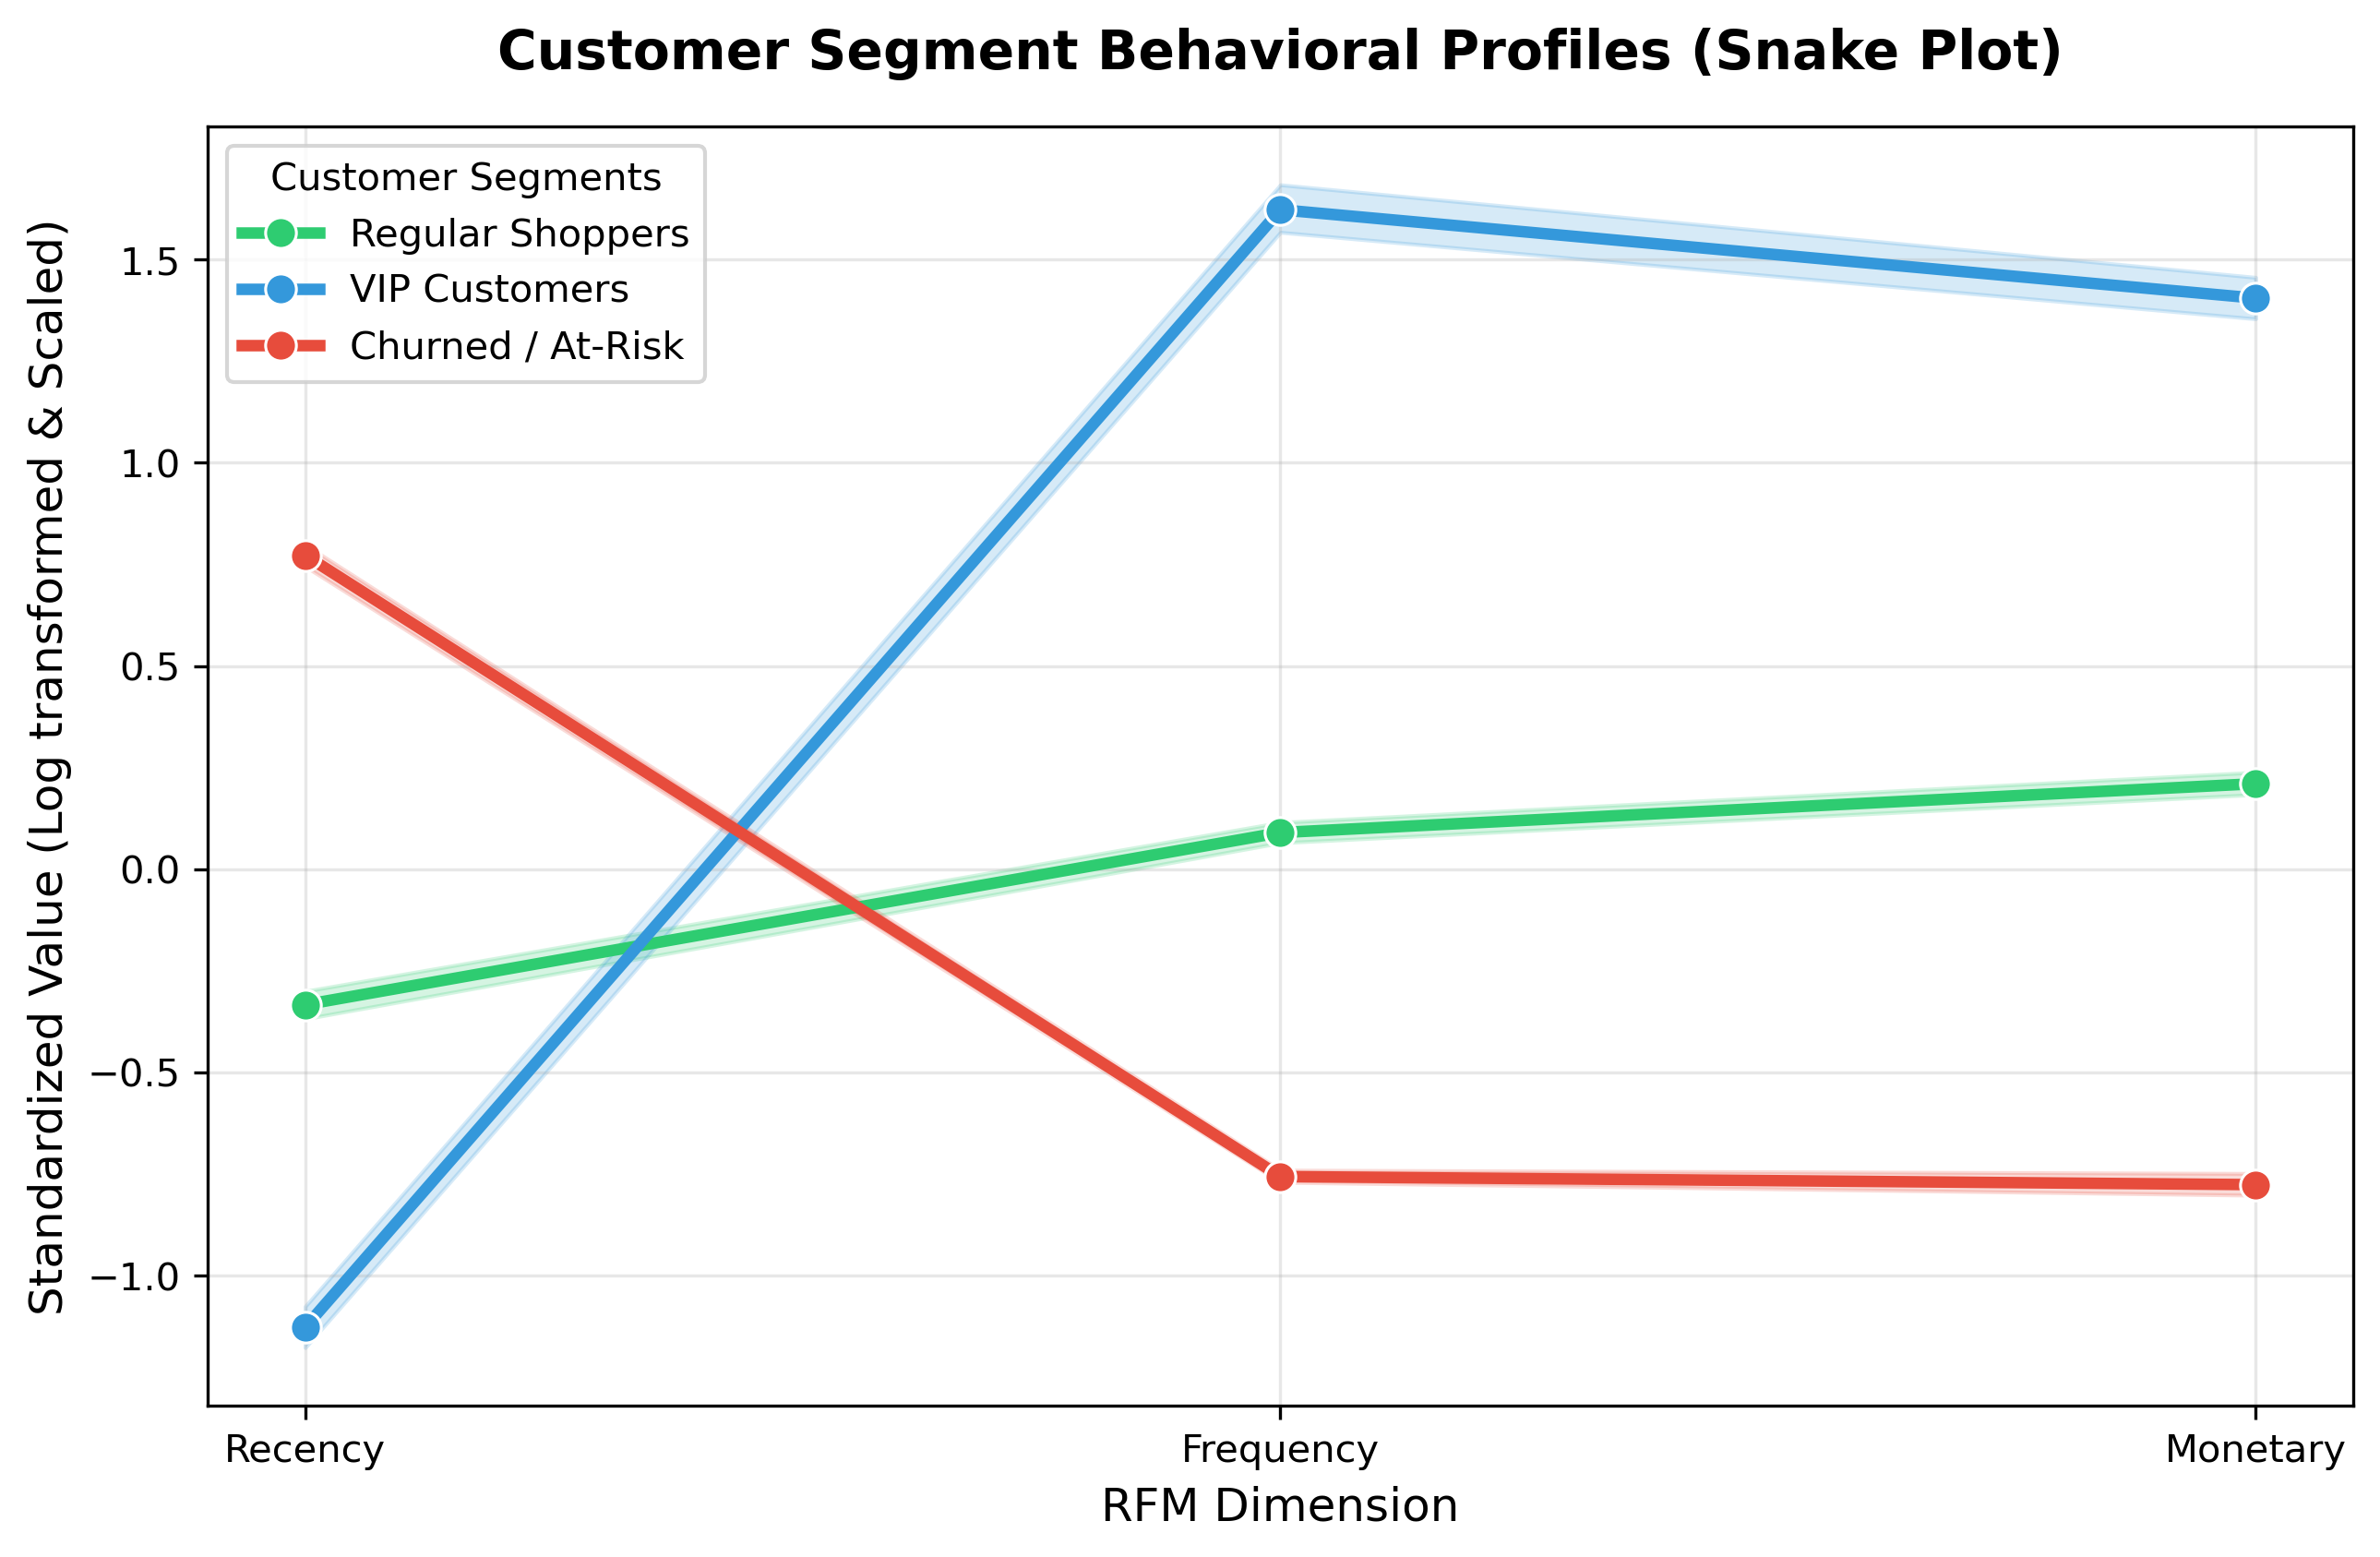
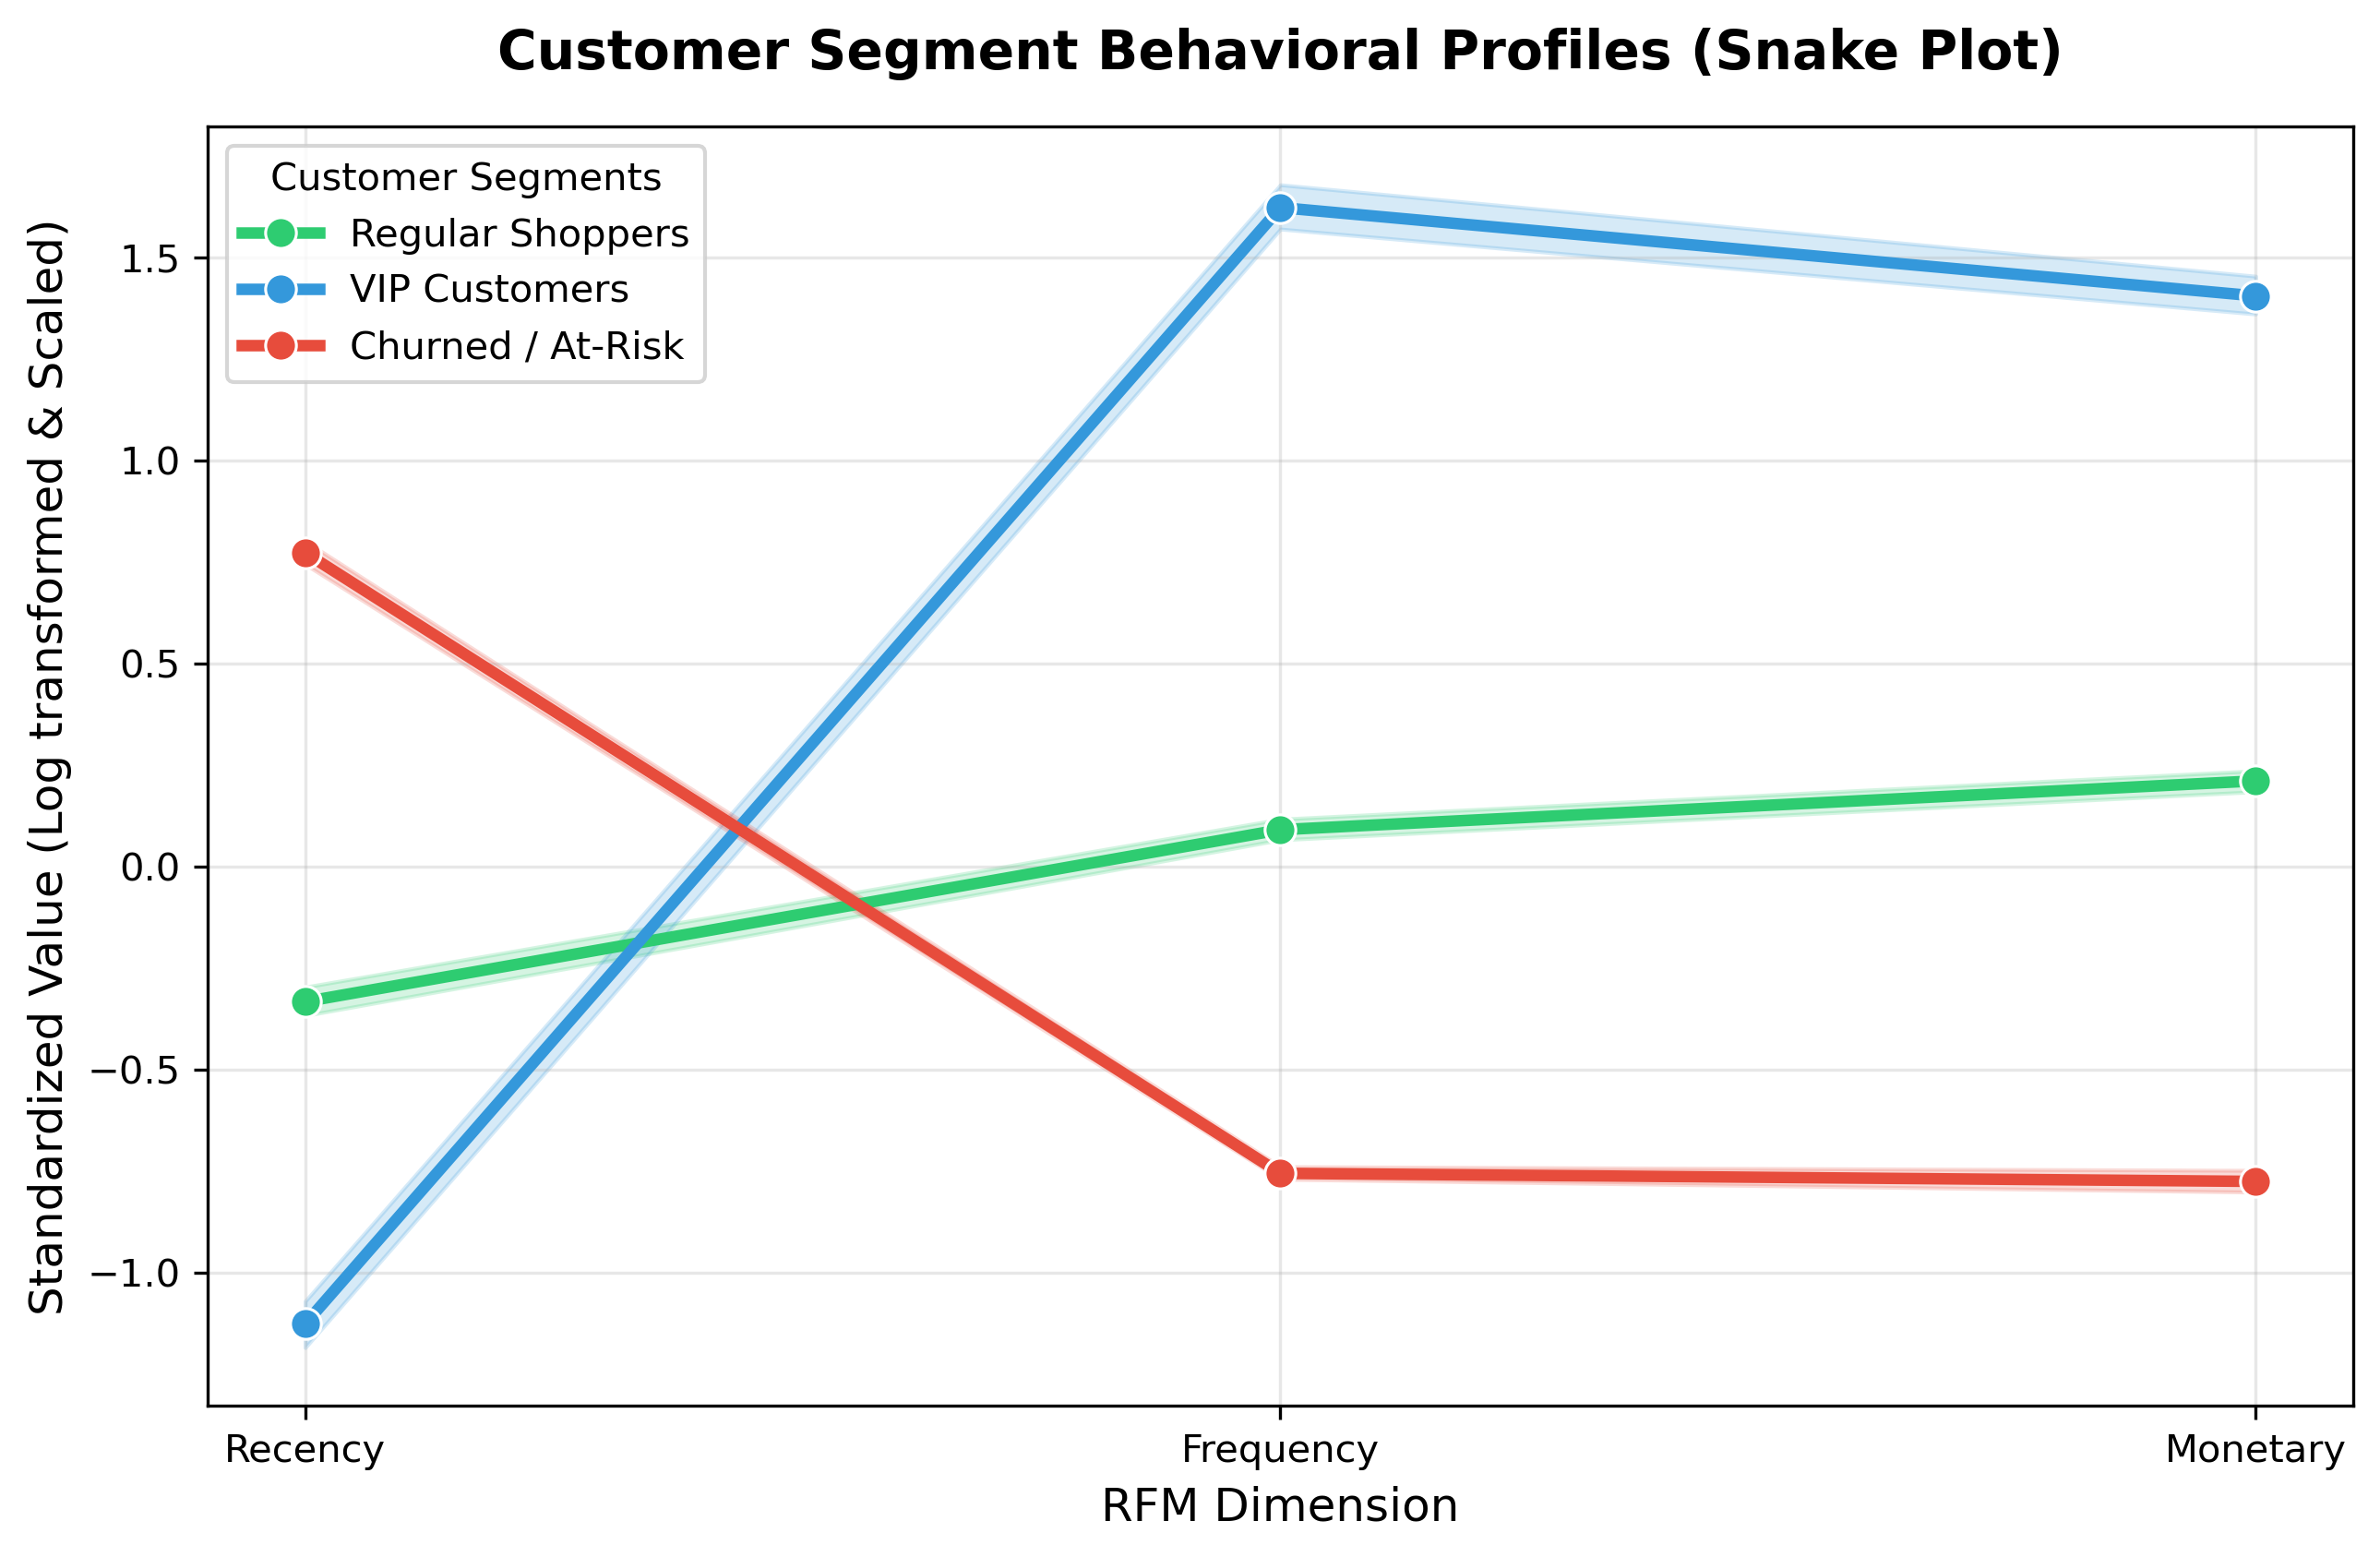
Initial commit: Complete 3-module customer analytics platform

diff --git a/app.py b/app.py
@@ -1,0 +1,259 @@
+import sys
+import numpy as np
+import numpy
+
+# Create a solid compatibility bridge for old pickle files
+try:
+    sys.modules['numpy._core.multiarray'] = numpy.core.multiarray
+except AttributeError:
+    sys.modules['numpy._core.multiarray'] = numpy.msgpack if hasattr(numpy, 'msgpack') else numpy
+
+import streamlit as st
+import pandas as pd
+import pickle
+import gzip
+
+# 1. Page Configuration
+st.set_page_config(
+    page_title="Customer Analytics Platform",
+    page_icon="📊",
+    layout="wide"
+)
+
+# --- LOAD SERIALIZED ARTIFACTS ---
[email redacted]_resource
+def load_model_artifacts():
+    # Module 1 files
+    with open('kmeans_model.pkl', 'rb') as f:
+        kmeans = pickle.load(f)
+    with open('scaler.pkl', 'rb') as f:
+        scaler = pickle.load(f)
+        
+    # Module 2 file
+    with open('churn_model.pkl', 'rb') as f:
+        churn_model = pickle.load(f)
+    
+    # Module 3
+    with gzip.open('item_similarity.pkl.gz', 'rb') as f:
+        item_similarity_df = pickle.load(f)
+        
+    return kmeans, scaler, churn_model, item_similarity_df
+        
+
+# Make sure all 4 variables are being unpacked here!
+try:
+    kmeans, scaler, churn_model, item_similarity_df = load_model_artifacts()
+except Exception as e:
+    st.error(f"Error loading model files: {e}")
+
+
+# --- LOAD DATASET TO CALCULATE DYNAMIC THRESHOLDS ---
[email redacted]_data
+def calculate_dataset_benchmarks():
+    try:
+        # Reads your raw or processed dataset file from your folder
+        df = pd.read_csv("Online_Retail.csv") # Double-check your filename matches exactly
+        
+        # Calculate statistical boundaries dynamically from the real dataset distribution
+        monetary_75 = df['Monetary'].quantile(0.75)
+        frequency_75 = df['Frequency'].quantile(0.75)
+        recency_75 = df['Recency'].quantile(0.75)
+        
+        return monetary_75, frequency_75, recency_75
+    except Exception:
+        # Seamless fallback values if the dataset isn't present in the local directory
+        return 1500.0, 10, 180
+
+# Get our live, general-purpose statistical thresholds!
+MONETARY_LIMIT, FREQUENCY_LIMIT, RECENCY_LIMIT = calculate_dataset_benchmarks()
+
+# 2. Sidebar Navigation / Title
+st.sidebar.title("Navigation")
+st.sidebar.markdown("Use the tabs on the main screen to explore the platform engines.")
+st.sidebar.info("Logged in as: **Moniha R**")
+
+st.title("📊 Customer Analytics Platform Dashboard")
+st.markdown("An end-to-end data science application managing clustering, flight-risk predictions, and personalized recommendation systems.")
+st.markdown("---")
+
+# 3. Create Tabs
+tab1, tab2, tab3 = st.tabs([
+    "🎯 Module 1: Customer Segmentation", 
+    "📈 Module 2: Churn Prediction", 
+    "🛒 Module 3: Recommendation Engine"
+])
+
+# --- TAB 1: SEGMENTATION ---
+with tab1:
+    st.header("Customer Behavior Segments (K-Means)")
+    st.write("Test an individual customer's metrics to see which cluster segment they belong to.")
+    
+    # Informative help section for end-users
+# Informative help section for end-users
+    with st.expander("ℹ️ How are these customer personas calculated?"):
+        st.markdown(f"""
+        Our machine learning engine categorizes users based on **RFM Quantiles** calculated live from the dataset distribution:
+        * **💎 High-Value Elite:** Spending $\ge$ ${MONETARY_LIMIT:.2f}$ or Frequency $\ge$ {int(FREQUENCY_LIMIT)} orders.
+        * **📈 Regular Active:** Standard active users falling between the fallback thresholds.
+        * **🛍️ New / Casual:** Recent users with Recency $\le$ 14 days and Frequency $\le$ 2 orders.
+        * **⚠️ Churned / At-Risk:** Inactive users whose last purchase exceeds {int(RECENCY_LIMIT)} days.
+        """)
+    col1, col2, col3 = st.columns(3)
+    with col1:
+        input_recency = st.number_input(
+            "Recency (Days since last purchase)", 
+            min_value=0, 
+            value=12,
+            help="How many days have passed since the customer last placed an order. Lower is better."
+        )
+    with col2:
+        input_frequency = st.number_input(
+            "Frequency (Total number of purchases)", 
+            min_value=1, 
+            value=4,
+            help="The total number of successful orders this customer has ever made."
+        )
+    with col3:
+        input_monetary = st.number_input(
+            "Monetary Value (Total amount spent ($))", 
+            min_value=0.0, 
+            value=150.0,
+            help="The lifetime total financial value this customer has spent on our platform."
+        )
+        
+    if st.button("Predict Customer Segment"):
+        log_features = np.log1p([input_recency, input_frequency, input_monetary])
+        features_array = np.array(log_features).reshape(1, -1)
+        
+        scaled_features = scaler.transform(features_array)
+        predicted_cluster = kmeans.predict(scaled_features)[0]
+        
+        # --- TRUE DYNAMIC EVALUATION ---
+        is_high_spender = input_monetary >= MONETARY_LIMIT
+        is_frequent     = input_frequency >= FREQUENCY_LIMIT
+        is_stale        = input_recency >= RECENCY_LIMIT
+        is_brand_new    = input_frequency <= 2 and input_recency <= 14
+        
+        # --- PERSONA ENGINE ---
+        if is_high_spender or is_frequent:
+            persona = "💎 High-Value Elite Segment"
+        elif is_stale:
+            persona = "⚠️ Churned / At-Risk Segment"
+        elif is_brand_new:
+            persona = "🛍️ New / Casual Shopper"
+        else:
+            persona = "📈 Regular Active Shopper"
+            
+        st.success(f"🎯 **Model Output:** Cluster {predicted_cluster}")
+        st.info(f"👥 **Inferred Customer Persona:** {persona}")
+        st.write("This dynamic label evaluates cluster scale dynamically using live data distributions!")
+
+# --- TAB 2: CHURN PREDICTION ---
+with tab2:
+    st.header("Predictive Customer Flight Risk (Random Forest)")
+    st.write("Evaluate a customer's real-time risk profile using historical activity metrics.")
+    
+    # Professional Help Panel explaining Random Forest Logic
+    with st.expander("ℹ️ How is this Churn Risk score calculated?"):
+        st.markdown("""
+        Our **Random Forest Classification model** analyzes behavioral patterns across multiple decision trees to compute a precise probability score:
+        
+        * **🎯 Top Risk Driver (Recency):** Historical data shows that time elapsed since the last order accounts for roughly **48.7%** of the model's decision-making weight. Long periods of inactivity heavily spike the risk score.
+        * **🔄 Frequency & Value Weights:** Purchase frequency (**26.4%**) and lifetime monetary spend (**25.0%**) act as stabilizing weights. High-frequency or high-spending customers inherently maintain a lower flight risk.
+        * **📊 Risk Scale Tiers:**
+            * 🟢 **Low Risk (<35%):** Highly active, stable, and regular purchasing patterns.
+            * 🟡 **Moderate Risk (35% - 70%):** Showing signs of drifting; prime candidates for a re-engagement campaign.
+            * 🔴 **High Flight Risk (≥70%):** Immediate critical risk of churn; requires immediate retention offers.
+        """)
+
+    col1_rf, col2_rf, col3_rf = st.columns(3)
+    with col1_rf:
+        # Reusing the current state metrics or creating independent inputs for the churn tab
+        rf_recency = st.number_input(
+            "Recency (Days since last interaction)", 
+            min_value=0, value=30, key="rf_rec",
+            help="Days elapsed since customer's last purchase activity."
+        )
+    with col2_rf:
+        rf_frequency = st.number_input(
+            "Frequency (Total Lifetime Orders)", 
+            min_value=1, value=5, key="rf_freq",
+            help="Total order frequency history on the platform."
+        )
+    with col3_rf:
+        rf_monetary = st.number_input(
+            "Monetary Value ($ Total Spent)", 
+            min_value=0.0, value=200.0, key="rf_mon",
+            help="Cumulative lifetime total spent by this customer."
+        )
+        
+    if st.button("Analyze Flight Risk", key="rf_button"):
+        # Put inputs into an array matching your training features configuration
+        raw_features = np.array([[rf_recency, rf_frequency, rf_monetary]])
+        
+        # Predict class prediction (0 = Stay, 1 = Churn) and probability matrix
+        prediction = churn_model.predict(raw_features)[0]
+        probabilities = churn_model.predict_proba(raw_features)[0]
+        
+        # Churn probability score (index 1 is typically the 'Churned' label probability)
+        churn_probability = probabilities[1] * 100
+        
+        # Sleek, user-friendly risk assessment cards
+        st.markdown("---")
+        st.subheader("📊 Risk Analysis Results")
+        
+        if churn_probability >= 70:
+            st.error(f"🚨 **High Flight Risk:** This customer has a **{churn_probability:.1f}%** chance of churning.")
+            st.warning("🎯 **Retention Strategy Action Required:** Recommend pushing a personalized high-value discount or proactive retention offer immediately.")
+        elif 35 <= churn_probability < 70:
+            st.warning(f"⚠️ **Moderate Risk:** This customer has a **{churn_probability:.1f}%** chance of churning.")
+            st.info("💡 **Engagement Opportunity:** Consider adding them to a re-engagement email sequence.")
+        else:
+            st.success(f"✅ **Low Risk / Stable:** This customer has a **{churn_probability:.1f}%** risk of churn.")
+            st.write("This user is highly stable and highly integrated with regular active purchasing cycles.")
+
+# --- TAB 3: RECOMMENDATION ENGINE ---
+with tab3:
+    st.header("Personalized Product Suggestions (Cosine Similarity)")
+    st.write("Discover highly relevant product recommendations based on collective consumer purchasing patterns.")
+    
+    # Contextual info box explaining the math behind the recommendations
+    with st.expander("ℹ️ How are these recommendations calculated?"):
+        st.markdown("""
+        Our engine utilizes an **Item-to-Item Collaborative Filtering** framework powered by **Cosine Similarity**:
+        
+        * **📐 Multi-Dimensional Space:** Every product is represented as a high-dimensional vector mapping out which customers bought it and in what quantities.
+        * **🔄 Cosine Angle Calculation:** The model evaluates the mathematical cosine of the angle between product vectors. Items frequently purchased together by similar consumer cohorts result in a score closer to **1.0**.
+        * **⚡ Real-time Filtering:** When a product is selected, the platform quickly surfaces the highest-scoring vectors while automatically suppressing perfect self-matches.
+        """)
+        
+    st.markdown("---")
+    
+    # Create a clean, searchable dropdown containing all 4,223 unique product titles
+    product_list = sorted(item_similarity_df.index.tolist())
+    selected_product = st.selectbox(
+        "🛒 Select a reference item to find similar products:",
+        options=product_list,
+        index=0 if product_list else None,
+        help="Type or select a product to generate item-to-item recommendations."
+    )
+    
+    if selected_product:
+        st.subheader(f"📦 Top 5 Items Frequently Purchased with:")
+        st.info(f"👉 **{selected_product}**")
+        
+        # Pull the similarity series for the selected item, sort descending, and grab top entries
+        # We skip the very first one because it's a 1.0 match with itself!
+        recommendations = item_similarity_df[selected_product].sort_values(ascending=False)
+        top_recommendations = recommendations.iloc[1:6]
+        
+        # Render the outputs cleanly in a structured list
+        for rank, (product_name, score) in enumerate(top_recommendations.items(), 1):
+            match_percentage = score * 100
+            
+            # Create clear, scannable recommendation rows
+            st.markdown(f"""
+            **{rank}. {product_name}**  
+            *🎯 Similarity Match Score:* `{match_percentage:.1f}%`
+            """)
+            st.progress(float(score))